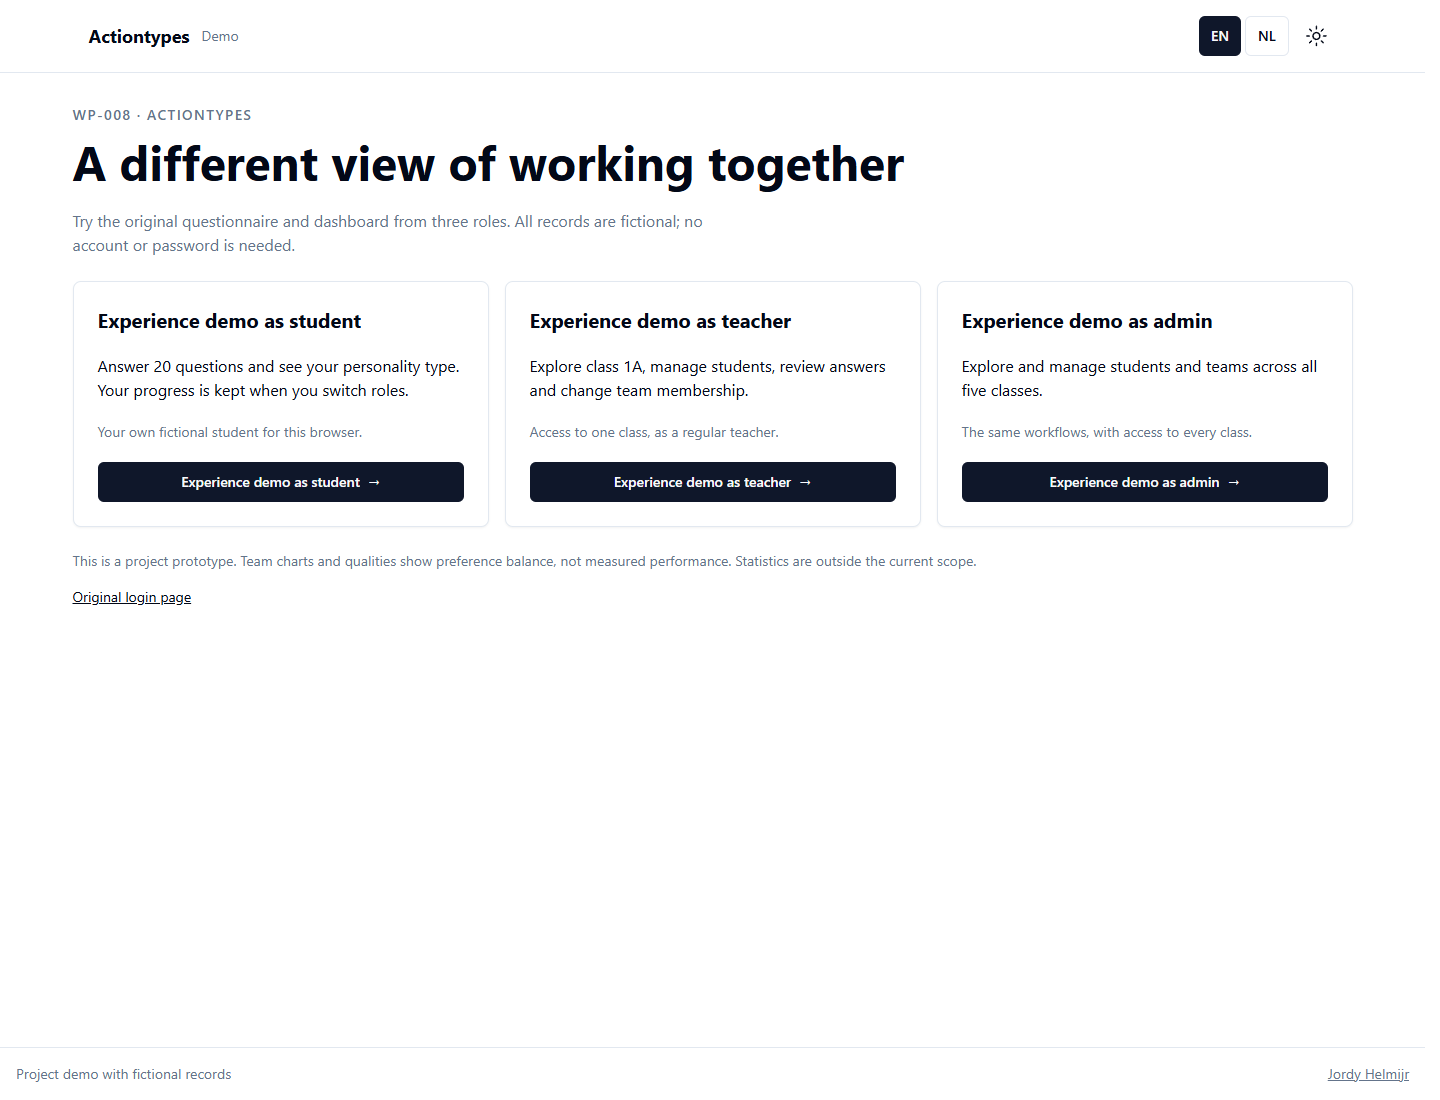
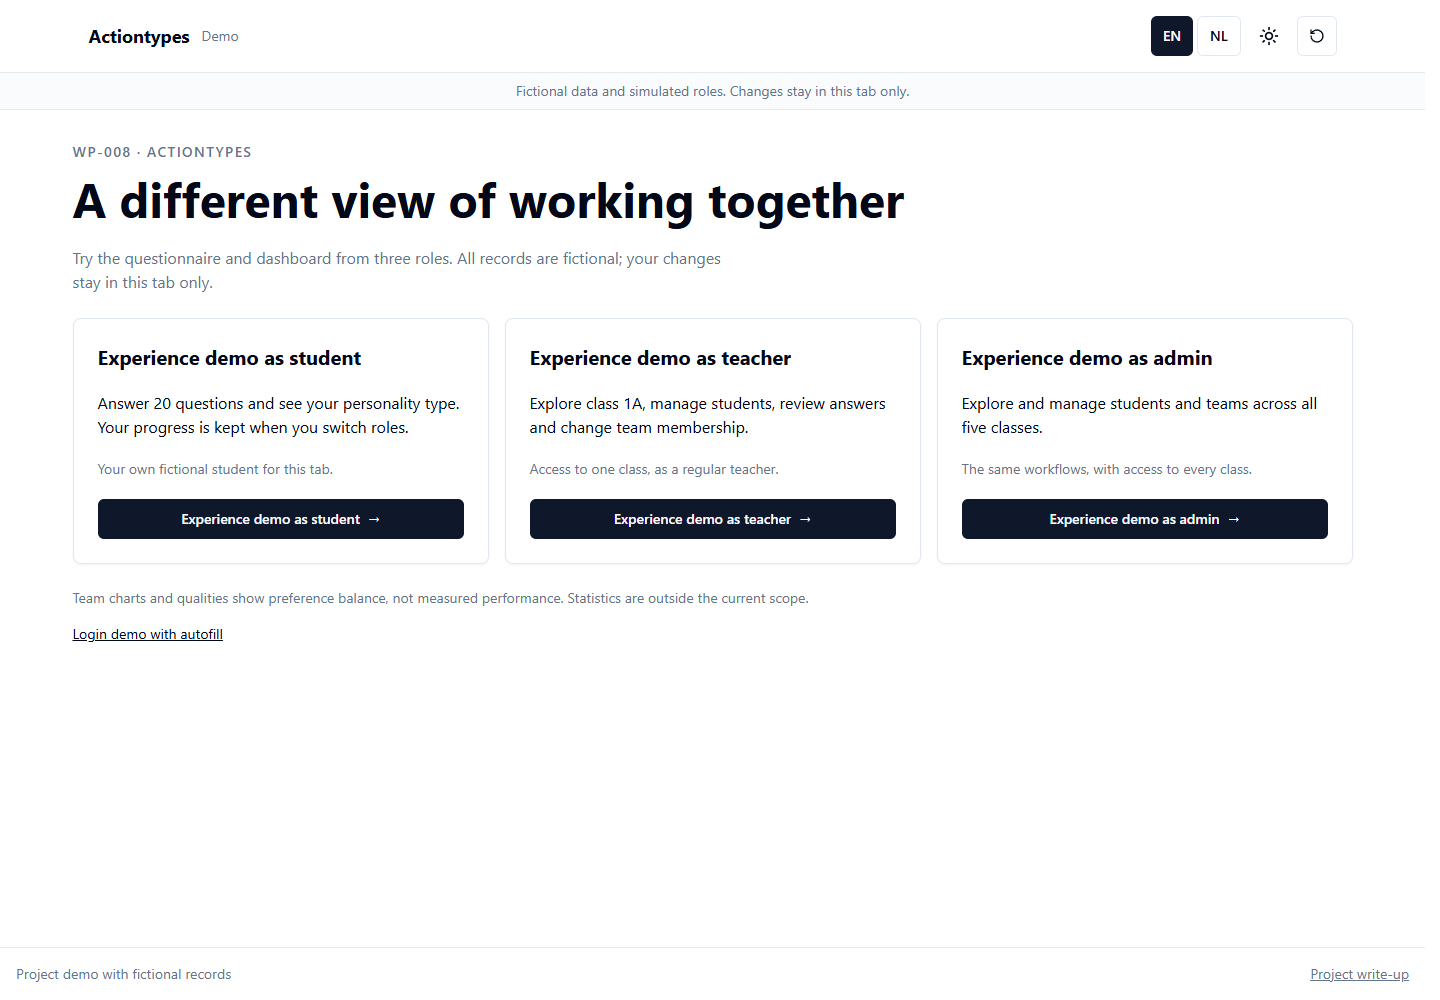
Document live browser-local Actiontypes demo

diff --git a/projects/actiontypes/README.md b/projects/actiontypes/README.md
@@ -5,7 +5,7 @@ A bilingual student questionnaire and teacher/admin demo with class-scoped team 
 - **Role:** Solo developer
 - **Period:** 2024–2026; demo updated 17 November 2026
 - **Stack:** Astro, React, TypeScript, Bun, Astro DB, SQLite, Tailwind CSS, shadcn/ui, Lucia
-- **Availability:** Demo verified locally; public hosting is being prepared. The screenshots show the current demo, not a live deployment.
+- **Public demo:** [Try Actiontypes](https://demo.jordy.zip/sd/wp-008/) — resettable browser-local version, verified 17 November 2026. The Astro/SQL application remains a separate server reference.
 
 ![Actiontypes demo entry with student, teacher and admin experiences and an EN/NL toggle](images/demo-roles.png)
 
@@ -25,11 +25,11 @@ The demo provides English and Dutch interfaces and three entry points:
 - **Teacher:** manages class 1A, including student records, answers, resets, teams and assignment.
 - **Admin:** uses the same management workflows across all five classes.
 
-The role chooser intentionally lets visitors try each demo role. It creates real sessions for server-selected demo accounts; it is not an access restriction on who may try the admin experience. Only fictional records are used.
+Every visitor can try all three roles. The public demo labels them as simulations: it has no server authentication or database. A deterministic fictional seed becomes the current tab's own copy, with edits and questionnaire progress saved in sessionStorage. Reloading keeps those changes; Reset demo restores the seed in that tab. Other visitors are unaffected. If storage is blocked, the demo works in memory and explains that refreshing discards changes.
 
 ![Teacher student-management screen showing fictional class 1A records](images/students.png)
 
-The server enforces the teacher's class boundary, including direct API requests. Student sessions cannot use staff APIs. The original login forms remain available, with centered cards and demo autofill buttons. Shared shadcn components keep the new controls consistent with the existing interface.
+The public role simulation shows teachers one class and admins all five. Client-side checks help reproduce the workflow; they are not security controls. The separate Astro server reference enforces real sessions, staff permissions and class ownership in its API. The original login forms remain available as a simulation, with centered cards and demo autofill buttons. Shared shadcn components keep the controls consistent with the existing interface.
 
 ## Team assignment and management
 
@@ -49,9 +49,9 @@ The shared qualities/radar feature is also applied to the original Actiontypes s
 
 ## Fixes and verification
 
-The demo's result calculation now counts each opposing pair separately. The former method of choosing the four most frequent letters could pick both sides of a pair while omitting another. Questionnaire writes validate the next question and its statement pair; a database unique index rejects concurrent duplicate answers.
+The demo's result calculation now counts each opposing pair separately. The former method of choosing the four most frequent letters could pick both sides of a pair while omitting another. Both versions validate question order and statement pairs. In the server reference, a database unique index also rejects concurrent duplicate answers.
 
-Local checks cover authorization and class boundaries, team capacity and CRUD, preservation of answers, missing-team creation, deterministic balancing, derived insights, all three demo roles and the full questionnaire. The demo has 17 passing unit/API cases, 104 responsive browser assertions at 320–1440px, and EN/NL teacher/admin management-flow checks. These are local checks, not a live hosting verification.
+Verification includes 20 passing unit/API/local-store cases and 104 responsive checks on the server reference. The public static build was also tested locally and at its hosted URL: both languages, all roles, the complete questionnaire, student/team edits, assignment, export, reload, independent tabs, reset and storage fallback, with 24 layout checks at 320–1440px. Those workflows issue no website POST, API or external requests and produced no browser errors. The screenshots show the actual static build with fictional records.
 
 ## Scope and next questions
 
@@ -61,8 +61,8 @@ Making a team look balanced in code does not establish that its members work bet
 
 ## Hosting status
 
-The local demo is a server-rendered application with a writable database, not a static export. Public availability at `demo.jordy.zip` is not yet verified. Deployment needs compatible hosted SQL storage, server-only credentials, a safe fictional-data lifecycle and routing that preserves the existing demos. No paid plan or service has been enabled.
+The public demo is a static React/Vite build under the existing demo catalog. It reuses the application's components, translations, assignment algorithm and insight model, with an explicit local data transport and hash navigation. No hosted database, new backend, paid plan or service was enabled. The original Astro/Lucia/SQLite application and its API tests remain available separately; publishing the static build does not deploy that server.
 
-The proposed next step is a browser-local public version with resettable fictional data and tab-local changes, avoiding a hosted database. That conversion is not implemented yet. A shared Convex backend for multiple demos is a later option; no Convex service has been connected.
+A shared Convex backend for multiple demos is a later option; no Convex service has been connected. Statistics and performance-history data remain outside this demo's scope.
 
 [Back to the project list](../../README.md)

diff --git a/README.md b/README.md
@@ -6,7 +6,7 @@ Each case study explains the problem, my contribution, how the application works
 
 | Project | What I built | Stack |
 | --- | --- | --- |
-| [Actiontypes](projects/actiontypes/README.md) | A bilingual student/teacher/admin demo with team management, automatic assignment and preference-based insights | Astro, React, TypeScript, SQLite |
+| [Actiontypes](projects/actiontypes/README.md) | A live resettable EN/NL demo with simulated student/teacher/admin roles, team management, assignment and preference-based insights | Astro, React, TypeScript, SQLite; public browser-local build |
 | [Event Calendar](projects/event-calendar/README.md) | Public event listings and agenda editing | Flask, Jinja2, SQLite, JavaScript |
 | [Quests](projects/quests/README.md) | A map-based quest log with waypoint progress and a public demo | React Router, TypeScript, Convex, Pigeon Maps |
 | [Chat automation and interactive quizzes](projects/chat-automation/README.md) | Chat and stream automation evolving into interactive quizzes | JavaScript, TypeScript, Python, OBS, React, Convex |
